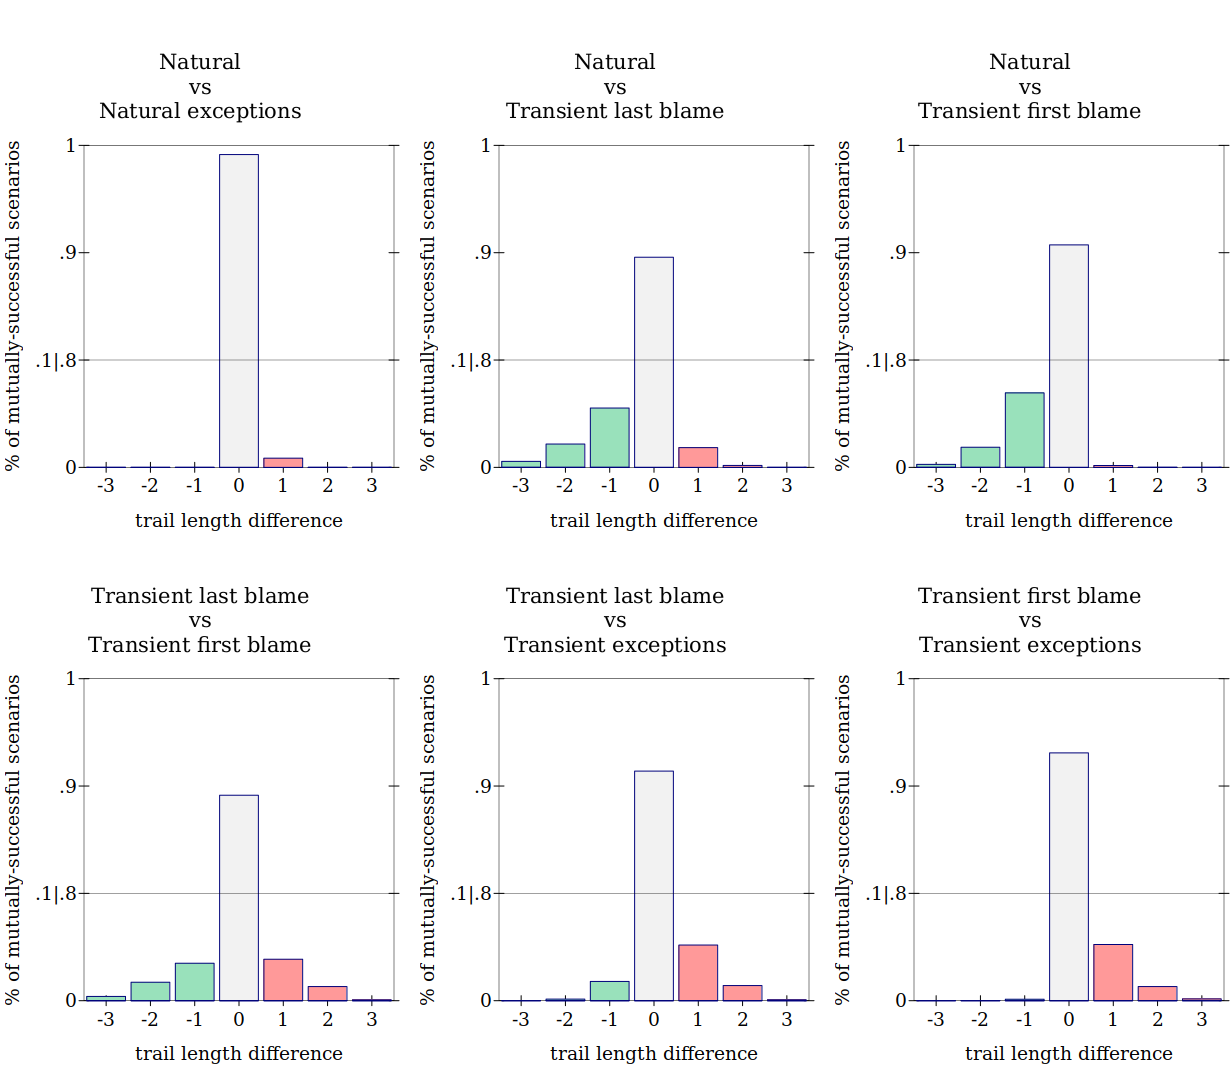
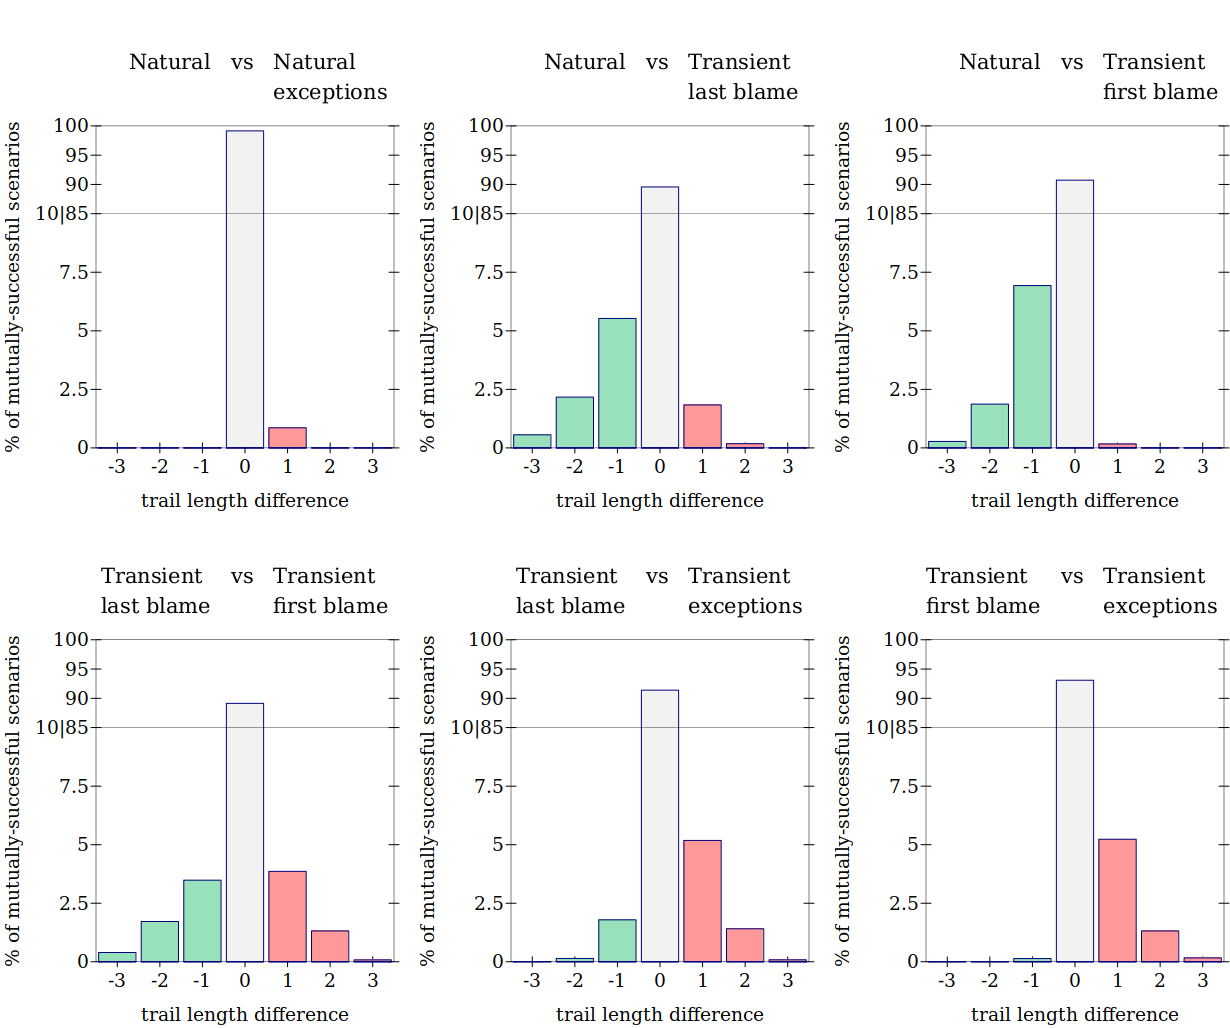
results: update figures and move them around

diff --git a/writing/results.tex b/writing/results.tex
@@ -5,6 +5,40 @@ memory limit of 6GB. The complete experiment required
 over 30,000 hours of compute hours.
 
 
+\begin{wrapfigure}{r}{.40\textwidth}
+  \centering
+  \includegraphics[width=0.40\textwidth]{./plots/success-bars}
+  \caption{Success baselines: The estimated percentage of scenarios for which each mode succeeds in locating the bug.
+  }
+  \label{fig:success-bars}
+\end{wrapfigure}
+
+\begin{figure}
+  \centering
+  \includegraphics[width=\textwidth]{./plots/avo-bars}
+  \caption{Usefulness comparisons: Each plot depicts a head-to-head comparison of the entitled mode against every other mode.
+  The portion above 0 (in green) is the estimated percentage of scenarios where the entitled mode is more useful than each of the other modes.
+  The portion below 0 (in red) is the estimated percentage of scenarios with the inverse situation.
+  The upper bound of error margin is 0.02\%.}
+  \label{fig:avo-bars}
+\end{figure}
+
+\begin{figure}
+  \centering
+  \includegraphics[width=0.32\textwidth]{./plots/TR-TR-stack-first-venn}
+  \hfill
+  \includegraphics[width=0.32\textwidth]{./plots/transient-newest-transient-stack-first-venn}
+  \hfill
+  \includegraphics[width=0.32\textwidth]{./plots/transient-oldest-transient-stack-first-venn}
+
+  \caption{Blame usefulness analysis: Each diagram shows the breakdown of how three modes' successful scenarios overlap.
+  The percentage of scenarios covered by each circle are proportions for which the corresponding mode succeeds.
+  For example, in the breakdown of Natural, all three modes succeed on the same scenario 57.3\% of the time, only Natural and Natural exceptions succeed on 29.1\% of the scenarios, only Natural and Erasure succeed on 2.1\%, and Natural alone succeeds on 9\%.
+  }
+  \label{fig:success-venns}
+\end{figure}
+
+
 Figure~\ref{fig:success-bars} summarizes the overall success rates of every mode.
 The success rates illustrate a few points that underly the rest of our analysis.
 The first notable piece of information from
@@ -67,48 +101,6 @@ no clear winner between Natural exceptions and Transient exceptions
 despite the theoretically advantageous additional checks of the Natural
 semantics.
 
-In order to better understand questions $Q_1$ to $Q_3$, figure~\ref{fig:success-venns} depicts a breakdown of the success of each semantics in comparison to Erasure.
-Specifically, the figure shows one Venn diagram per mode of the rational programmer that uses blame.
-Each diagram breaks breaks down the overlap in the success of the blame mode, its corresponding exception mode, and Erasure.
-For example, in the breakdown of Natural, the diagram shows that all three modes succeed on the same scenario 57.3\% of the time, only Natural and Natural exceptions succeed on 29.1\% of the scenarios, only Natural and Erasure succeed on 2.1\%, and Natural alone succeeds on 9\%.
-This analysis highlights the success tradeoffs each semantics offers against Erasure, with and without blame, to answer questions about the tradeoffs in choosing to use blame or just exceptions for each semantics.
-For instance, the breakdown of Natural clearly illustrates that if choosing between Natural blame, Natural exceptions, and Erasure, Natural blame is the absolutely most successful: all of the successes of the other two modes are subsets of Natural's successful scenarios.
-On the other hand, Transient's blame modes are similar but not so clear-cut.
-
-\begin{figure}
-  \centering
-  \includegraphics[width=0.30\textwidth]{./plots/success-bars}
-  \caption{Success baselines: The estimated percentage of scenarios for which each mode succeeds in locating the bug.
-  }
-  \label{fig:success-bars}
-\end{figure}
-
-\begin{figure}
-  \centering
-  \includegraphics[width=0.9\textwidth]{./plots/avo-bars}
-  \caption{Usefulness comparisons: Each plot depicts a head-to-head comparison of the entitled mode against every other mode.
-  The portion above 0 (in green) is the estimated percentage of scenarios where the entitled mode is more useful than each of the other modes.
-  The portion below 0 (in red) is the estimated percentage of scenarios with the inverse situation.
-  The upper bound of error margin is 0.02\%.}
-  \label{fig:avo-bars}
-\end{figure}
-
-\begin{figure}
-  \centering
-  \includegraphics[width=0.32\textwidth]{./plots/TR-TR-stack-first-venn}
-  \hfill
-  \includegraphics[width=0.32\textwidth]{./plots/transient-newest-transient-stack-first-venn}
-  \hfill
-  \includegraphics[width=0.32\textwidth]{./plots/transient-oldest-transient-stack-first-venn}
-
-  \caption{Blame usefulness analysis: Each diagram shows the breakdown of how three modes' successful scenarios overlap.
-  The percentage of scenarios covered by each circle are proportions for which the corresponding mode succeeds.
-  For example, in the breakdown of Natural, all three modes succeed on the same scenario 57.3\% of the time, only Natural and Natural exceptions succeed on 29.1\% of the scenarios, only Natural and Erasure succeed on 2.1\%, and Natural alone succeeds on 9\%.
-  }
-  \label{fig:success-venns}
-\end{figure}
-
-
 \begin{figure}
   \centering
   \includegraphics[width=0.8\textwidth]{./plots/bt-lengths-table}
@@ -121,11 +113,19 @@ On the other hand, Transient's blame modes are similar but not so clear-cut.
   \centering
   \includegraphics[width=0.9\textwidth]{./plots/bt-length-comparisons}
   \caption{Effort comparisons: Each plot depicts the distribution of scenarios with trail length differences ranging from -3 to 3.
-  A negative difference means that the top mode's trail is three steps shorter than the bottom mode's trail for the same scenario, and a positive difference is the reverse.
+  A negative difference means that the first mode's trail is three steps shorter than the second mode's trail for the same scenario, and a positive difference is the reverse.
   Only scenarios where both modes succeed are considered.
-  The \texttt{.2|.8} on the y-axis indicates that the axis is truncated between 0.2 and 0.8.}
+  The 10|85 on the y-axis indicates that the axis is truncated between 10 and 85\%.}
   \label{fig:effort-comparisons}
 \end{figure}
+
+In order to better understand questions $Q_1$ to $Q_3$, figure~\ref{fig:success-venns} depicts a breakdown of the success of each semantics in comparison to Erasure.
+Specifically, the figure shows one Venn diagram per mode of the rational programmer that uses blame.
+Each diagram breaks breaks down the overlap in the success of the blame mode, its corresponding exception mode, and Erasure.
+For example, in the breakdown of Natural, the diagram shows that all three modes succeed on the same scenario 57.3\% of the time, only Natural and Natural exceptions succeed on 29.1\% of the scenarios, only Natural and Erasure succeed on 2.1\%, and Natural alone succeeds on 9\%.
+This analysis highlights the success tradeoffs each semantics offers against Erasure, with and without blame, to answer questions about the tradeoffs in choosing to use blame or just exceptions for each semantics.
+For instance, the breakdown of Natural clearly illustrates that if choosing between Natural blame, Natural exceptions, and Erasure, Natural blame is the absolutely most successful: all of the successes of the other two modes are subsets of Natural's successful scenarios.
+On the other hand, Transient's blame modes are similar but not so clear-cut.
 
 
 Turning to programmer effort, figure~\ref{fig:effort-table} shows the distribution of blame trail lengths
